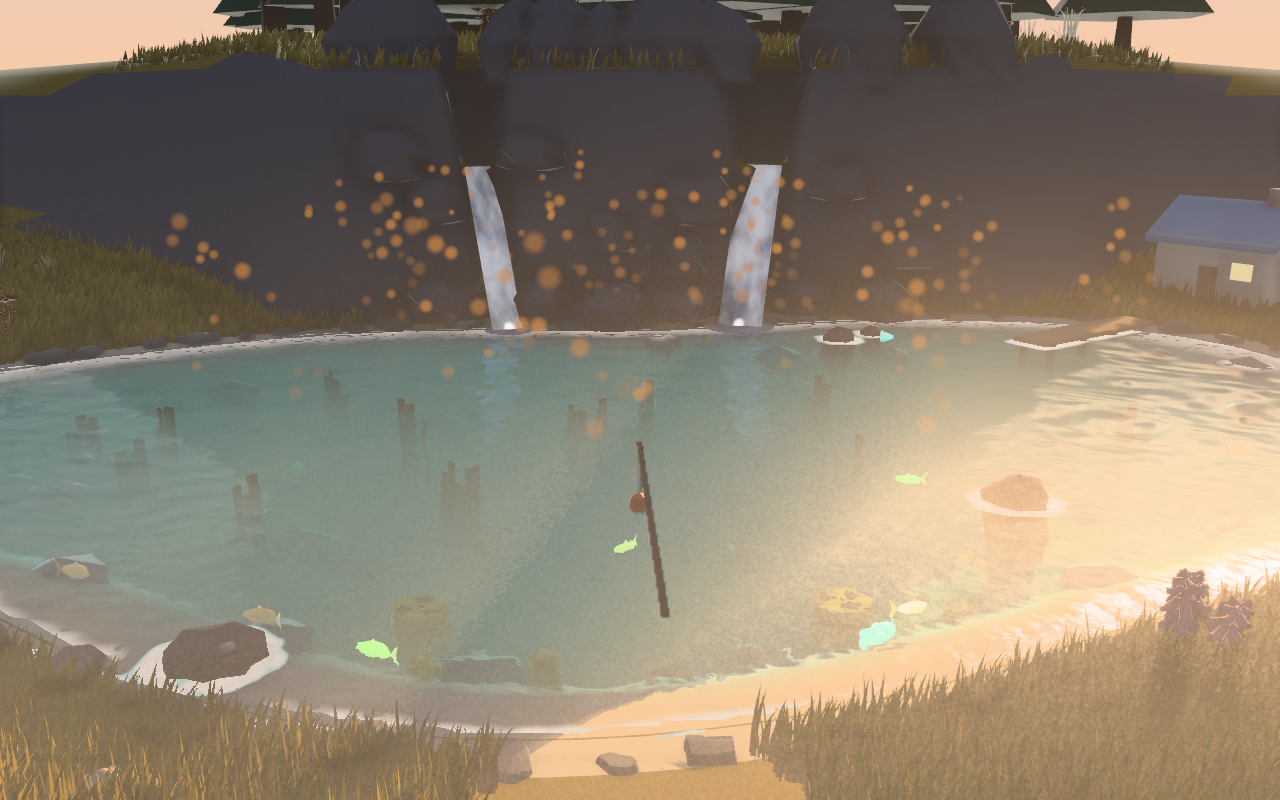
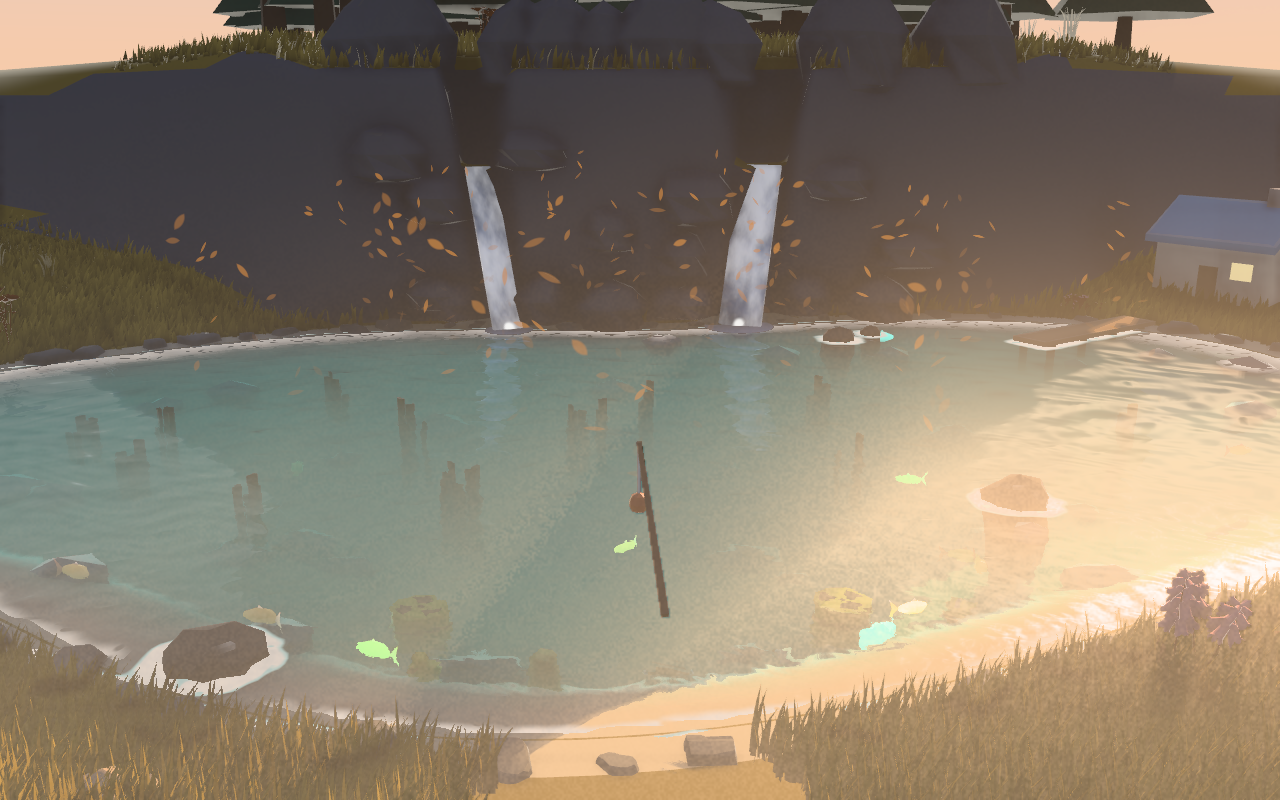
Autumn's leaves fall as leaves and spring's petals as petals, tumbling, on artshape-render v0.49.0
The falling things were the renderer's soft discs, so at a leaf's size they
read as russet flecks and a petal as a pink dot. artshape-render v0.49.0 draws
a particle as a leaf or a petal when asked (`Emit.shape`, a vesica or a notched
teardrop as a signed distance on the same quad, each turning and folding as it
falls from its own hash), so `Falling` takes a `shape`, autumn's is the leaf and
spring's the petal, and `fallingEmits` passes it through; snow stays the disc.
The pin moves from v0.44.0 to v0.49.0.

Three pictures were written again, every changed pixel a particle and the other
76 held: season-autumn-day, season-spring-day and season-autumn-dawn-mist, since
autumn's leaves fall at dawn too. The download went from 187,999 to 194,509
bytes gzipped, measured pin by pin: 28 for these lines, 5,568 for the four
renderer versions between the pins (the dither, the focus, the trample switch)
and 914 for the shape's shader. The frame at the standard scene reads 3.92 ms
against 3.68, and boot 889 against 800, both within the gate's tolerance and
written from a standalone run. The renderer's own fire of 13,800 live discs
costs about 5% more for the larger particle; the pond's three hundred cost
nothing measurable. The spring frame from the shore reads 6.9 ms within the
8 ms budget, which the season gate holds to the budget alone.

diff --git a/src/lake.ts b/src/lake.ts
@@ -769,11 +769,13 @@ export interface Mist {
  * One kind of falling thing, as the renderer's particles are asked for it (`docs/seasons.md`, part 4): the colour it
  * starts and the one it fades to, its size and growth, how long it lives and how much that varies, how much of
  * gravity it feels (little: it drifts), how many each emitter drops each time, how many game frames pass between one
- * emitter's drops, and the wind that carries it, in world units a second.
+ * emitter's drops, and the wind that carries it, in world units a second. Its shape is the renderer's: a leaf or a
+ * petal tumbles as it falls, and a flake left as the disc is the soft round dot it was.
  */
 export interface Falling {
   colour: Colour;
   fade?: Colour;
+  shape?: 'leaf' | 'petal';
   size: number;
   growth: number;
   life: number;
@@ -826,8 +828,9 @@ export const SEASON_DRESSING: Record<Season, SeasonDressing> = {
     water: { near: [0.16, 0.5, 0.48], crest: [0.92, 0.9, 0.8], sparkle: 0.85 },
     breeze: 0.5,
     waves: 1.2,
-    // russet leaves darkening to brown as they go, drifting on the stronger breeze
+    // russet leaves darkening to brown as they go, tumbling on the stronger breeze
     falling: {
+      shape: 'leaf',
       colour: [0.6, 0.24, 0.04],
       fade: [0.22, 0.1, 0.03],
       size: 0.35,
@@ -887,6 +890,7 @@ export const SEASON_DRESSING: Record<Season, SeasonDressing> = {
     waves: 1,
     // pink petals, small, on a soft breeze
     falling: {
+      shape: 'petal',
       colour: [0.95, 0.55, 0.7],
       fade: [0.85, 0.4, 0.55],
       size: 0.16,

diff --git a/test/falling.test.ts b/test/falling.test.ts
@@ -37,6 +37,11 @@ describe.each(others)('%s', (s) => {
     for (const e of emits) expect(e.floor).toBe(world.level);
   });
 
+  it('is drawn as the season’s shape: a leaf in autumn, a petal in spring, and the disc for snow', () => {
+    const want = { autumn: 'leaf', winter: 'disc', spring: 'petal' }[s];
+    for (const e of emits) expect(e.shape).toBe(want);
+  });
+
   it('has colours in [0, 1], a gravity in [0, 1], and drifts down, not up', () => {
     for (const e of emits) {
       for (const c of [...e.colour, ...(e.fade ?? [])]) {

diff --git a/src/falling.ts b/src/falling.ts
@@ -39,6 +39,8 @@ export function fallingEmits(season: Season, world: FallingWorld): Emit[] {
       growth: f.growth,
       colour: f.colour,
       fade: f.fade,
+      // a leaf or a petal, drawn as one and tumbling; snow is the disc it was
+      shape: f.shape ?? 'disc',
       alpha: 1,
       gravity: f.gravity,
       // a flake reaching the water is gone

diff --git a/docs/seasons.md b/docs/seasons.md
@@ -46,7 +46,9 @@ too, as the last part, measured, dropped to a slice of its own if it cannot fit 
     `renderer.wind` takes the season's breeze. All free, written in `finish`.
   - _The falling things:_ `src/falling.ts` (pure: the emitters of a season, a ring of `FALLING.emitters` points over
     the lake and banks at `FALLING.height`, each a `count`, `life`, `size`, `colour`, `gravity`, `floor` at the water,
-    and a cadence in game frames) emitted from `simulate` as the falls' mist is (`mistDue`), through
+    a `shape` where the season has one (autumn's leaves are the renderer's `leaf`, spring's petals its `petal`, from
+    artshape-render v0.49.0, each turning and folding as it falls from its own hash; snow is the disc) and a cadence
+    in game frames) emitted from `simulate` as the falls' mist is (`mistDue`), through
     `renderer.emit`, carried sideways by `renderer.setWind` set to the season's wind; nothing in a frame is made. The
     particle pool grows from 2048 to what the worst season needs at its steady state (rate × life, about 300 live
     plus the splashes), named in `scripts/leaks.ts`. Paused, nothing is emitted (as the mist). The lean rung draws them too (found in part 6: lean drops the grass and the mist, not the particles), since the

diff --git a/CLAUDE.md b/CLAUDE.md
@@ -162,7 +162,8 @@ agrees. The kit now gives the pebbles and the bank's clumps only.
   and sparkle (`style.clear(..., season)`), `breeze` (the grass wind's strength), `waves` (an amplitude scale,
   `wavesFor`, which the bobber's surface is rebuilt from), `falling` (the particles of leaves, snow or blossom:
   `fallingEmits` in `src/falling.ts`, a ring of `FALLING.emitters` over the lake, emitted on a cadence from `simulate`
-  at the pond only, carried by `setWind`; the pool stays `PARTICLE_POOL`, 2048, since a bigger ring moves the slot each
+  at the pond only, carried by `setWind`; autumn's are the renderer's `leaf` shape and spring's its `petal`
+  (`Falling.shape`, from artshape-render v0.49.0, each tumbling from its own hash), winter's the disc; the pool stays `PARTICLE_POOL`, 2048, since a bigger ring moves the slot each
   droplet's chance is drawn from and so nineteen pictures; the window of a fall and the falls' mist over the longest
   life is held under it in `leaks`) and `mist` (the renderer's fog, `mistFor`, low over `WATER_LEVEL` at autumn dawn
   and winter dawn and night, about 0.2 ms, off on the lean rung with the grass; the flakes fall on lean too). The page
